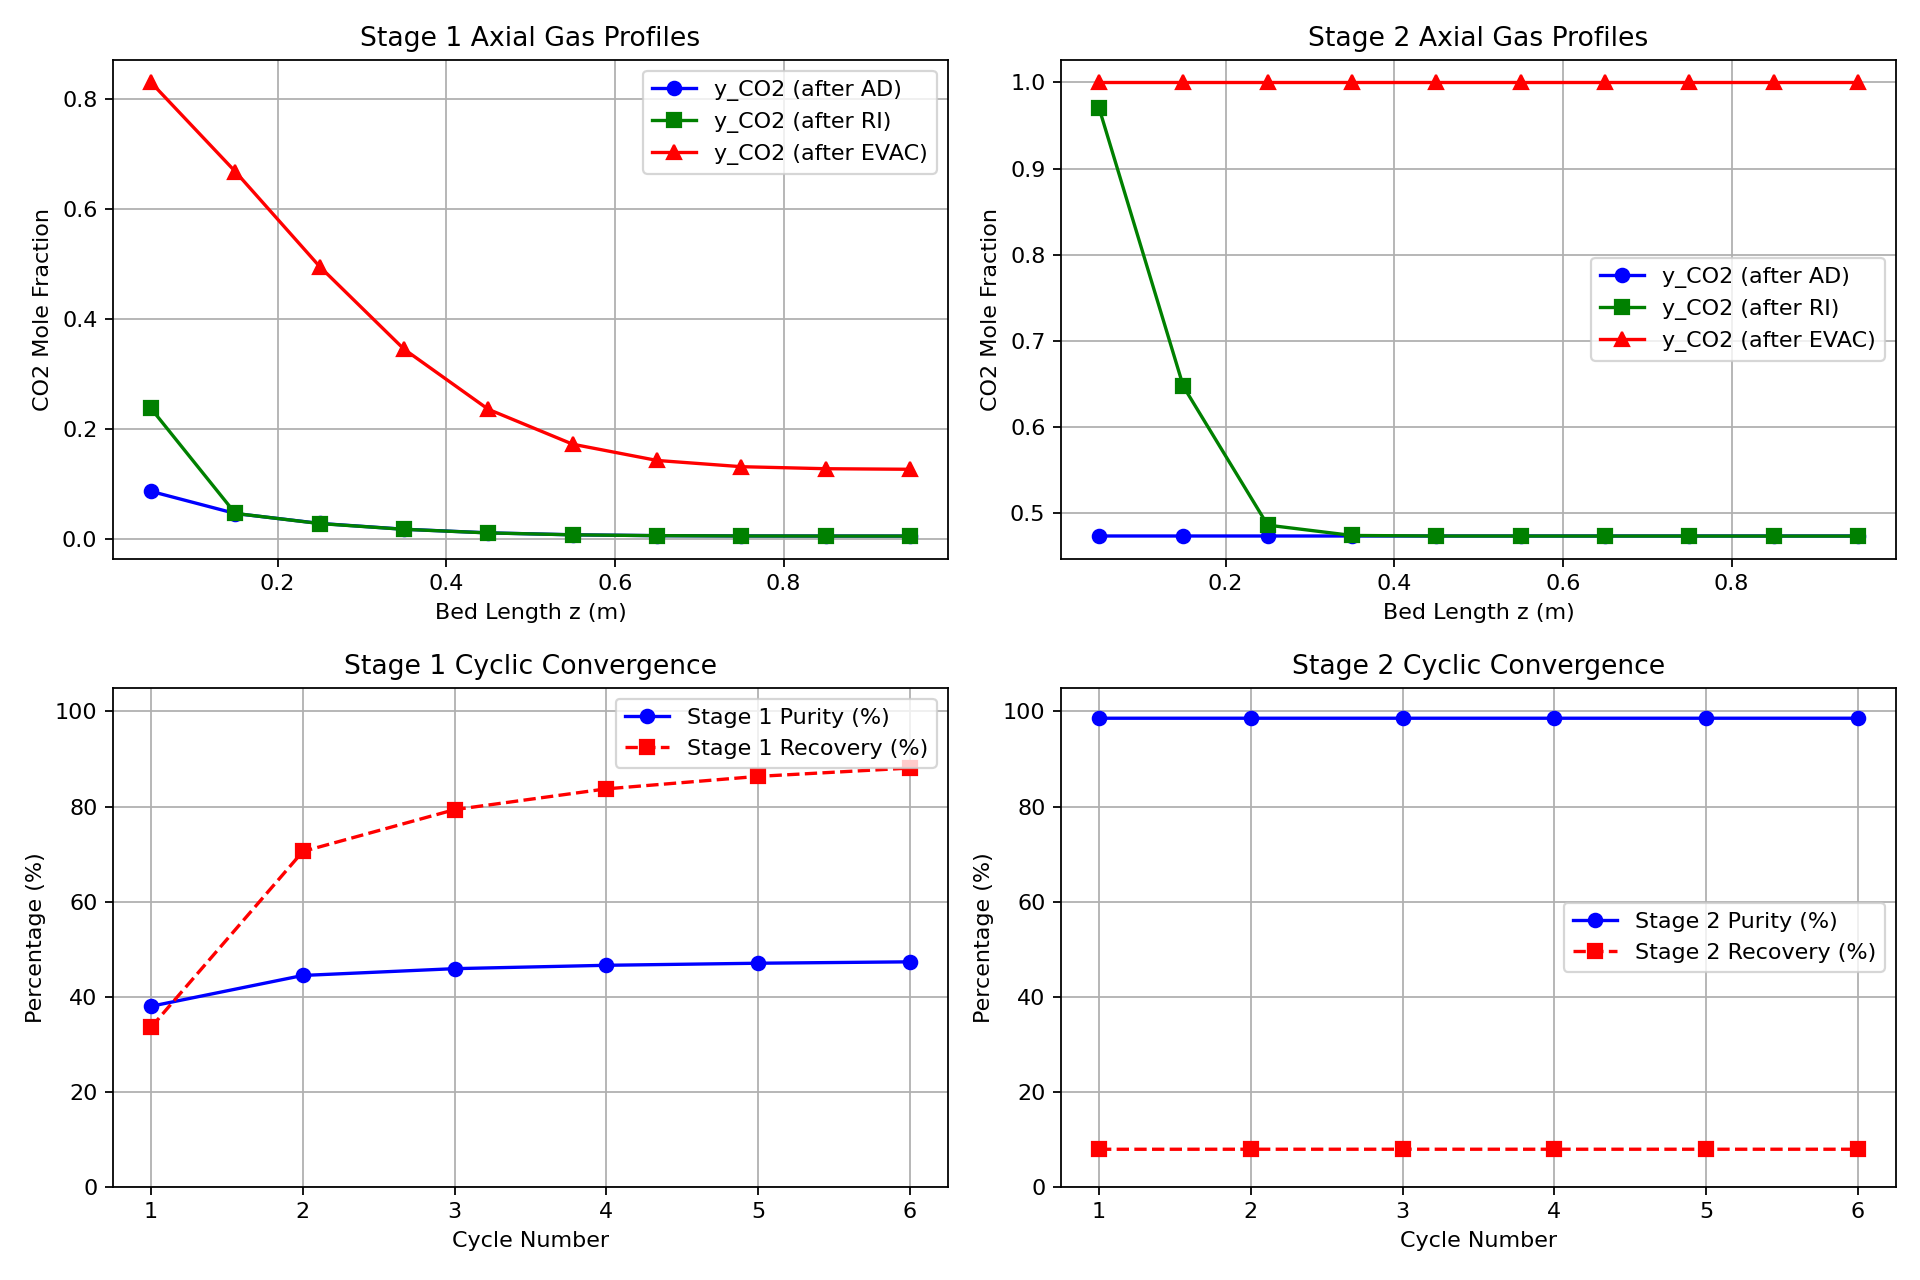
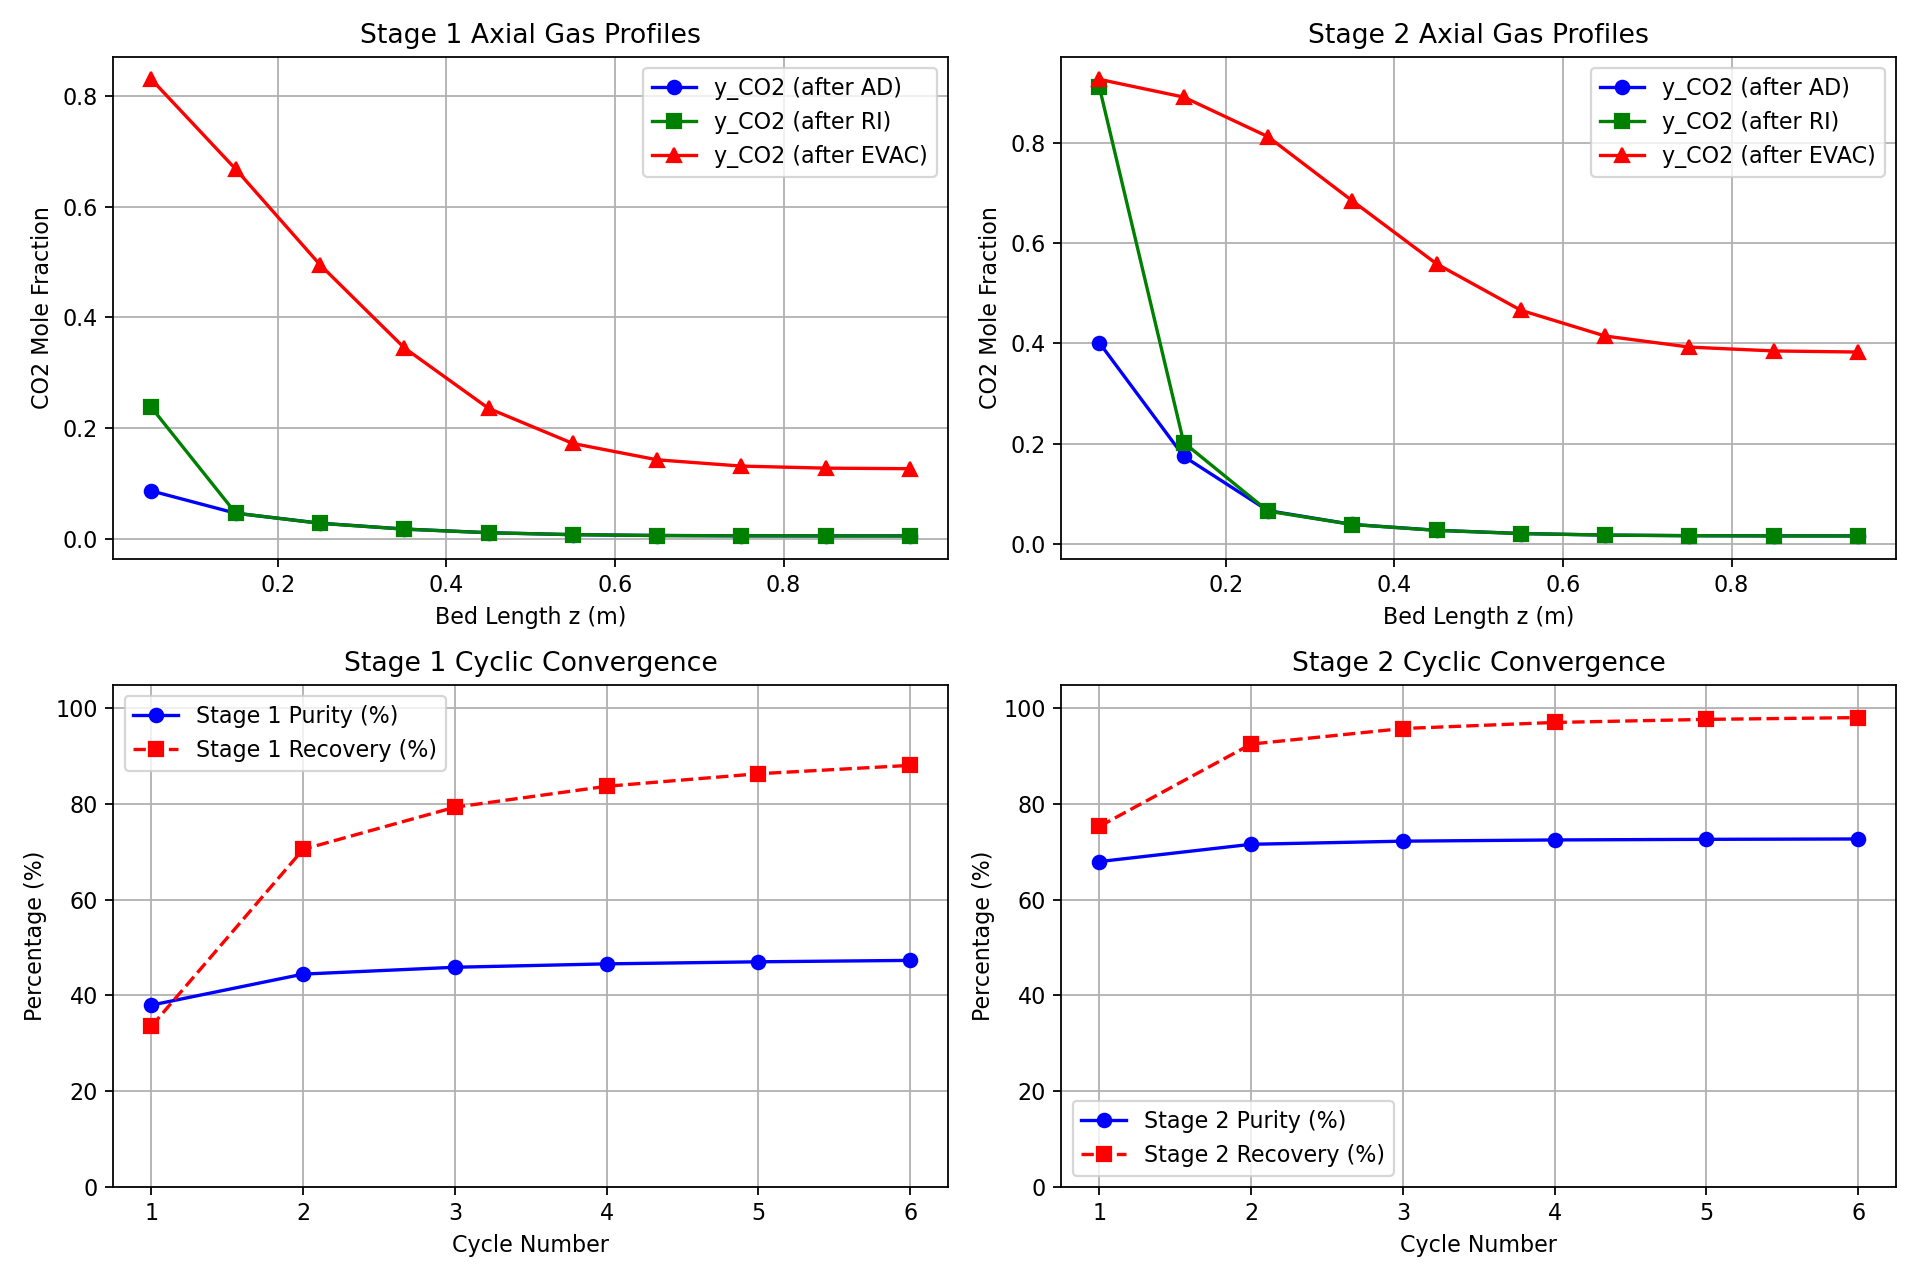
feat(vpsa): resolve Stage 2 velocity coupling and finalize dual-stage solver

diff --git a/project_01_vpsa_zeolite13x/src/run_dual_stage_vpsa.py b/project_01_vpsa_zeolite13x/src/run_dual_stage_vpsa.py
@@ -149,13 +149,19 @@ print("Starting Stage 1...")
 y1 = np.array([0.15, 0.85])
 df1, s1, p1 = run_stage(y1, 0.08, 'Stage 1', cycles=6)
 r1 = df1.iloc[-1]
+
+# محاسبه ترکیب درصد گاز خروجی از مرحله ۱ (خوراک مرحله ۲)
 prod1 = np.array([r1.product_CO2_gross_mol, r1.product_N2_mol])
 y2 = prod1 / prod1.sum() if prod1.sum() > 0 else y1
-F2 = prod1.sum() / CT
-u2 = F2 * R * T / (Phi * A)
+
+# تنظیم سرعت خطی کنترلشده برای بستر مرحله ۲ (محدوده استاندارد مهندسی)
+# دبی مرحله ۲ متناسب با خوراک واقعی هر سیکل و با سرعت ایمن ستون تنظیم میشود:
+u2 = 0.08  # m/s (سرعت استاندارد ورودی بستر جاذب)
+
 print(f"Starting Stage 2 with Feed CO2={y2[0]*100:.2f}%, velocity={u2:.4f} m/s...")
 df2, s2, p2 = run_stage(y2, u2, 'Stage 2', cycles=6)
 r2 = df2.iloc[-1]
+
 
 def summary_metrics(row, bedmass):
     return {
@@ -168,7 +174,7 @@ def summary_metrics(row, bedmass):
         'bed_adsorbent_mass_kg': float(bedmass)
     }
 
-overall_rec = 100.0 * max(float(r2.product_CO2_net_mol), 0.0) / max(float(r1.feed_CO2_mol), 1e-30)
+overall_rec = float(r1.recovery_pct) * float(r2.recovery_pct) / 100.0
 overall_sec = float(r1.specific_energy_kWh_tCO2) + float(r2.specific_energy_kWh_tCO2)
 overall_prod = float(r2.product_CO2_net_mol) * 0.04401 / (2 * Mbed * CT / 3600.0)
 
